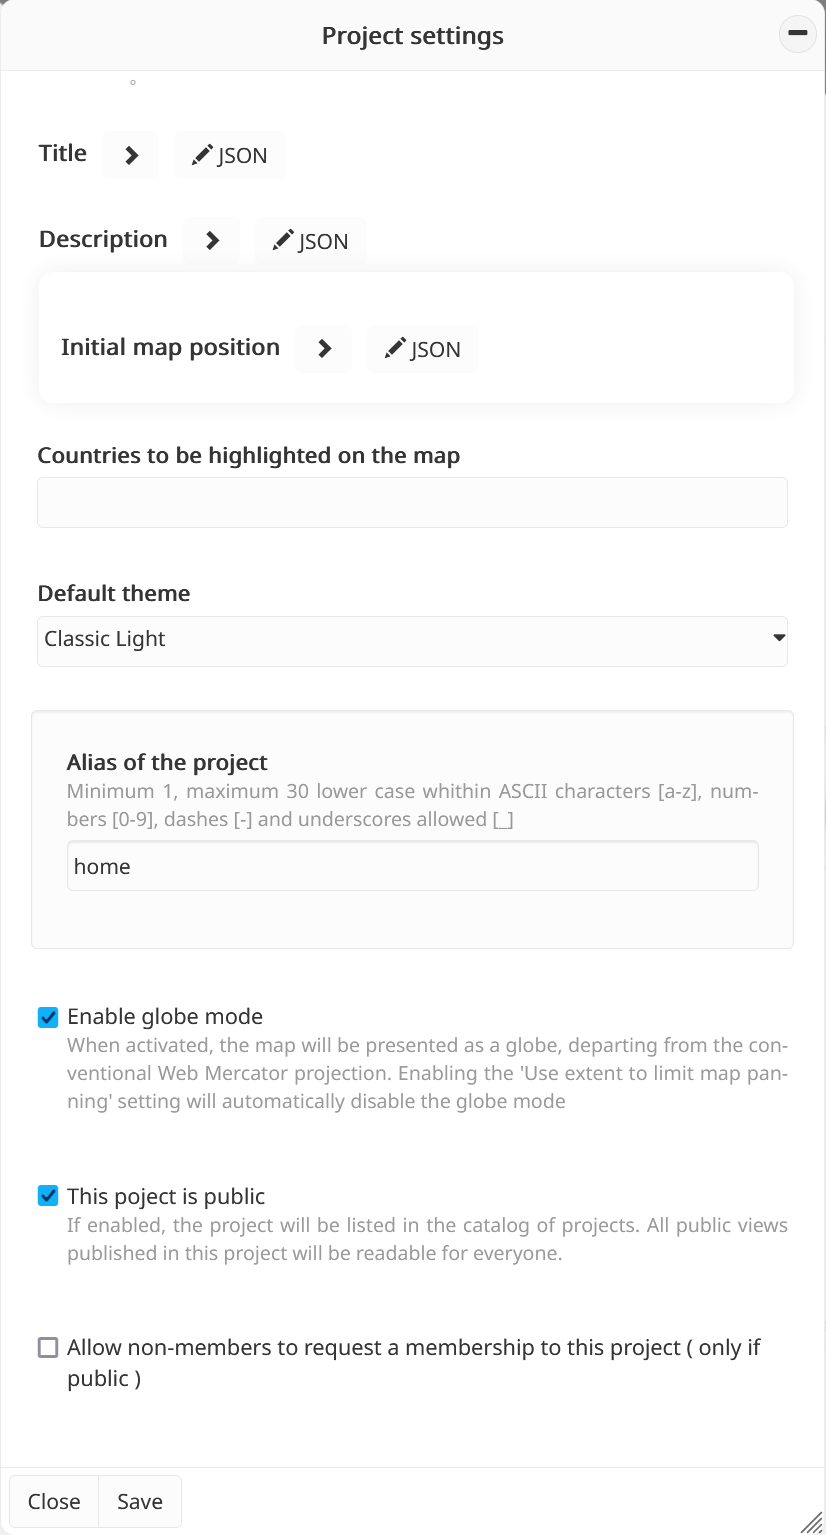
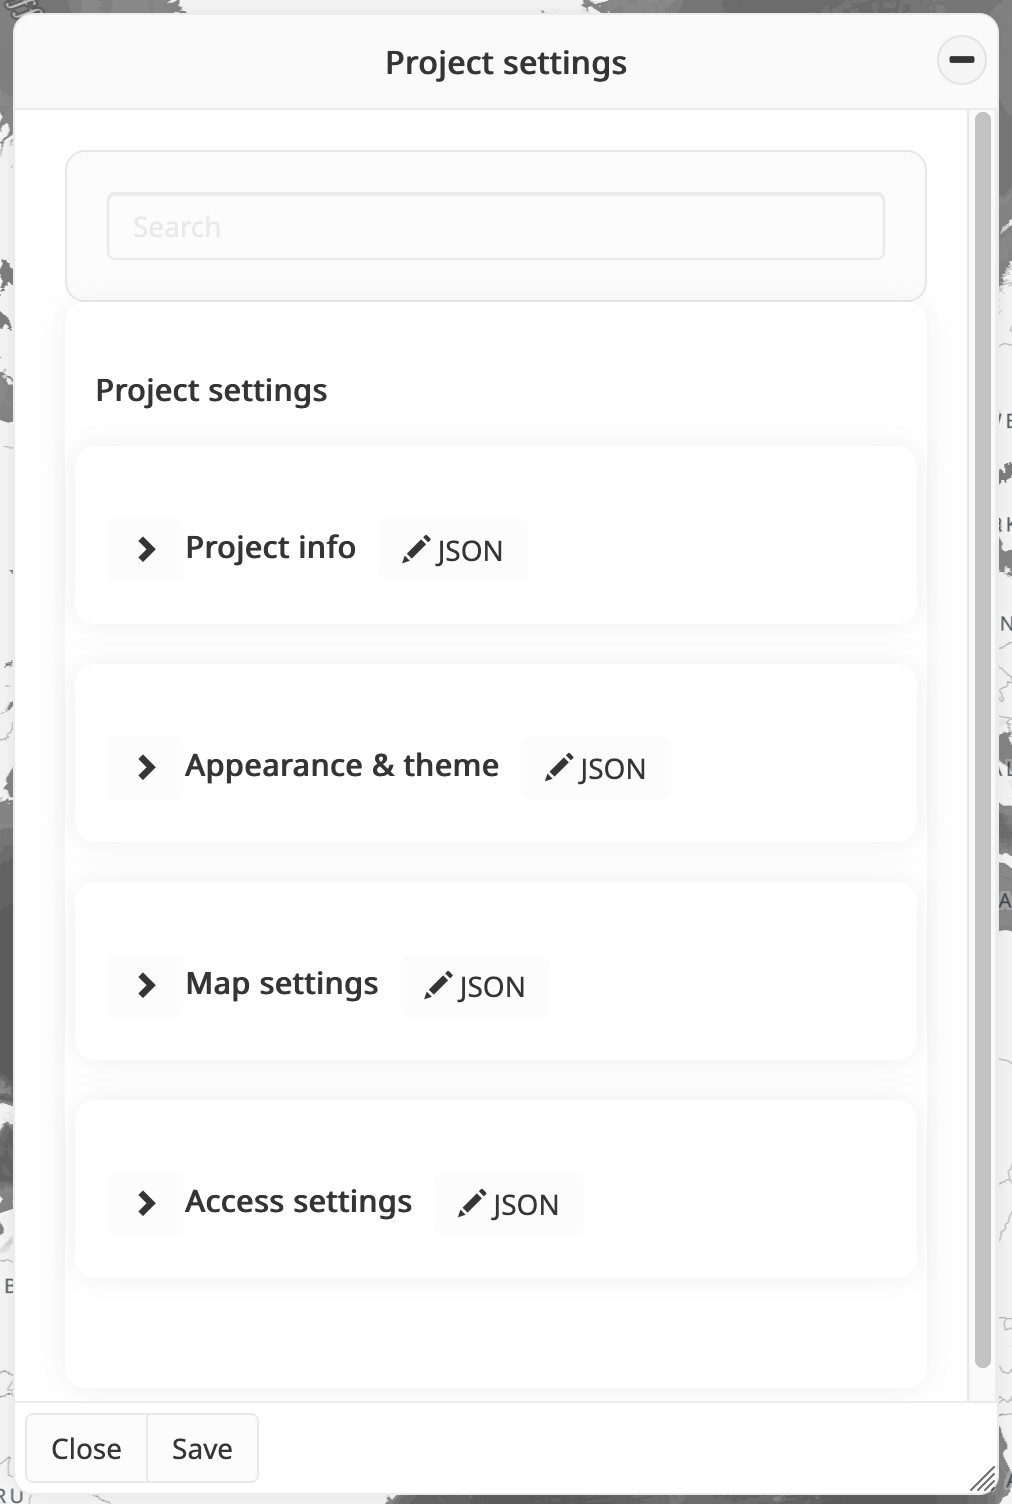
Add theme manager; update project configuration section; update screenshots

diff --git a/docs/user-interface/toolbox-basics.rst b/docs/user-interface/toolbox-basics.rst
@@ -6,7 +6,8 @@ content in MapX, managing projects and members, and perform some basic
 analysis on their data. Depending on the user's role in the project, the
 list of available tools varies. The tools presented in this section are
 those available to users with a public role. Advanced tools are
-presented and described in the :doc:`Advanced tools <../advanced-tools/index>` chapter.
+presented and described in the :doc:`Advanced tools <../advanced-tools/index>`
+chapter.
 
 .. only:: html
 
@@ -109,16 +110,7 @@ Utilities
    the MapX search tool API is provided in this tool. The API technical
    documentation is available
    `here <https://github.com/unep-grid/mapx/wiki/Search-tool-API>`__.
-5. **Theme configuration**: The MapX user interface as well as the
-   basemap can be customized from this tool. For each element, users can
-   enable/disable its display, and change its color and/or opacity. If
-   the element is a text/label, its font can also be changed. These
-   modifications are only effective during the current session and will
-   therefore not be preserved if MapX is reloaded. However, if you want
-   to keep your custom theme for future sessions, it is possible to
-   export it in ``JSON`` format on your computer and then import it as
-   needed.
-6. **MapX version and changelog**: This tool allows users to consult the
+5. **MapX version and changelog**: This tool allows users to consult the
    version of MapX they are using as well as the change-log of the
    application listing all the improvements, bug fixes and new
    functionalities deployed over the versions.
@@ -126,7 +118,7 @@ Utilities
 .. only:: html
 
    .. figure:: ./img/changelog.png
-      :width: 400
+      :width: 500
       :align: center
       :class: with-shadow
 
@@ -140,3 +132,115 @@ Utilities
       :class: with-shadow
 
       MapX changelog
+
+Theme configuration
+-------------------
+
+The **Theme manager** enables users to customize the MapX interface and basemap.
+Users can select an existing theme for the current session, modify it, or create
+a new one. For each element, users can toggle its visibility and adjust
+its color and opacity. Text and label elements also allow font customization.
+Multiple themes can be created and saved either for the current session or
+locally in the browser. Project administrators can leverage the **Theme
+manager** to create and assign a default theme for their project.
+
+How do I use the Theme manager?
+~~~~~~~~~~~~~~~~~~~~~~~~~~~~~~~~
+
+.. only:: html
+
+   .. figure:: ./img/theme-manager.jpg
+      :width: 500
+      :align: center
+      :class: with-shadow
+
+      MapX Theme Manager
+
+.. only:: latex
+
+   .. figure:: ./img/theme-manager.jpg
+      :width: 10cm
+      :align: center
+      :class: with-shadow
+
+      MapX Theme Manager
+
+1. **Theme selection:** This field allows you to select the theme to edit.
+   By default, the current theme is selected in the manager.
+2. **Search:** This field enables keyword-based searching within the editable
+   elements of the theme.
+3. **Editable elements:** Interface or basemap elements that can be edited.
+   For each element, you can toggle visibility and adjust color and opacity.
+4. **Font selection:** For text and label elements, the font can be modified
+   using the dropdown list.
+5. **Theme management tools:**
+
+   1. **Close:** Closes the **Theme manager**.
+   2. **Import:** Imports a local theme (from your computer) into the manager
+      in ``JSON`` format.
+   3. **Export:** Saves a theme locally (to your computer) in ``JSON`` format.
+   4. **Duplicate:** Copies and saves the currently selected theme with
+      your modifications.
+
+      .. only:: html
+
+         .. figure:: ./img/theme-manager-duplicate.png
+            :width: 400
+            :align: center
+            :class: with-shadow
+
+            Theme Storage Location
+
+      .. only:: latex
+
+         .. figure:: ./img/theme-manager-duplicate.png
+            :width: 8cm
+            :align: center
+            :class: with-shadow
+
+            Theme Storage Location
+
+      The duplication process requires the user to define an ID, a label, and
+      a description for the new theme. By default, the values shown in the panel
+      are those of the theme being copied.
+      
+      The lower part of the panel (highlighted in blue) allows you to configure
+      the combination of :ref:`Navigation buttons <navigation-buttons>`, enabled
+      or disabled, that will trigger the display of your theme.
+      Other combinations will display the default MapX themes. 
+
+      Once created, the following options are provided for saving a theme:
+
+      .. only:: html
+
+         .. figure:: ./img/theme-manager-storage.png
+            :width: 400
+            :align: center
+            :class: with-shadow
+
+            Theme Storage Location
+
+      .. only:: latex
+
+         .. figure:: ./img/theme-manager-storage.png
+            :width: 8cm
+            :align: center
+            :class: with-shadow
+
+            Theme Storage Location
+
+      - **Session, temporary:** The theme will only be available for the current
+        session and will be removed if the project is changed or MapX is
+        restarted.
+      - **This device, any project:** The theme will be stored locally in your
+        browser and will be accessible across all projects.
+      - **Database, for this project:** The theme will be saved permanently to
+        the MapX database. Currently, only project administrators can perform
+        this action.
+
+   5. **Update:** Modifies an existing theme.
+   6. **Delete:** Deletes a theme. Default MapX themes and the theme set as
+      the project default cannot be deleted.
+
+      .. warning::
+         Deletion is permanent and cannot be undone!

diff --git a/docs/project-management/project-configuration.rst b/docs/project-management/project-configuration.rst
@@ -9,40 +9,75 @@ Project configuration
 Administrators can access the **Project configuration** tool from the
 **Toolbox** and fill/update the following settings:
 
+Project info
+------------
+
 -  **Title** (multilingual)
--  **Description** (multilingual): brief summary of the project content
--  **Initial map position**: default map position when the project is
-   loaded by a user. In addition, it is possible to limit the map
-   panning to the defined position, thus limiting what users will be
-   able to see when exploring the project (e.g., a project can be
-   limited to the Mediterranean region and only display its extent).
--  **Countries to be highlighted on the map**
--  **Default theme**: default MapX theme when the project is loaded by a
-   user
--  **Alias of the project**: a human readable name with which the
-   project is identified and that can be used in the URL for accessing
-   the project
--  **Enable globe mode**: administrators have the option to default to
-   the globe mode to display data in the map instead of the Web Mercator
-   projection.
-   
+-  **Description** (multilingual): brief summary of the project content.
+-  **Alias of the project**: a human-readable name used to identify the project,
+   which can also be included in the URL to access it directly.
+-  **Organisation details**
+
+   - **Name**: the name of the organisation managing the project.
+   - **Contact name**: primary contact person for the project.
+   - **Contact email**: email address for inquiries related to the project.
+
+-  **Terms of use**: project-specific terms that complement the :doc:`general
+   MapX terms <../legal-notices/terms-of-use>`, defining rules and guidelines
+   applicable to this particular project.
+
+Appearance & theme
+------------------
+
+-  **Project logo**: the logo displayed in the MapX interface for the current
+   project, helping to visually identify the project. The logo must be provided
+   in ``SVG`` format.
+-  **Default theme**: the theme automatically applied when a user opens
+   the project. This can be a standard MapX theme or a custom theme defined by
+   a project administrator.
+
+Map settings
+------------
+
+-  **Countries to be highlighted on the map**: select which countries should
+   be visually emphasized when the project is displayed.
+-  **Initial map position**: defines the default map position when a user opens
+   the project. Additionally, map panning can be restricted to this defined
+   area, limiting the geographic extent that users can explore. For example,
+   a project focused on the Mediterranean region can be configured to only
+   display that area.
+
    .. warning::
-      Enabling the **Use extent to limit map panning** setting
+      Enabling the **Use extent to limit map panning** option
       (in the **Initial map position** section) will automatically
       disable the globe mode.
 
-In addition to the settings above, there are two options for defining
-the degree of openness of the project:
+-  **Map projection**: administrators can choose the default display mode for
+   the map, either as a globe or using the Web Mercator projection. It is also
+   possible to disable the globe mode button in the menu bar, preventing users
+   from switching to the globe view.
 
-1. Public or private project: while public projects can be searched in
-   the list of projects by all MapX users, private projects are only
-   visible/accessible by their members.
+Access settings
+---------------
+
+In addition to the general project settings, MapX provides two options
+to define the level of accessibility for a project:
+
+1. Public or private project:
+   
+   -  Public projects are visible and searchable in the project list for
+      all MapX users.
+   -  Private projects are only accessible to members explicitly added to
+      the project.
    
    .. note::
-      Don't forget that it is possible to define specific reading rights
-      for each view of a project. It is therefore possible to publish
-      private views (e.g., available only to members) in a public project.
+      It is possible to define specific read permissions for each project view.
+      For example, a private view (accessible only to members) can exist within
+      a public project.
 
-2. Allow public users to apply for a member role in the project: this
-   option complements the **Invite a new member** tool available to
-   administrators (see below).
+2. Allow public users to request membership:
+
+   -  Enabling this option allows users who are not currently members to apply
+      for a member role in the project.
+   -  This feature complements the **Invite a new member** tool available to
+      project administrators.

diff --git a/docs/sources/edit-vector-source.rst b/docs/sources/edit-vector-source.rst
@@ -38,7 +38,7 @@ Selecting the source to edit
 ~~~~~~~~~~~~~~~~~~~~~~~~~~~~
 
 .. figure:: ./img/edit-sources-selection.png
-   :width: 400
+   :width: 450
    :align: center
    :class: with-shadow
 
@@ -59,7 +59,7 @@ interactive field. All the information listed above are parsed and
 matching texts are underlined.
 
 .. figure:: ./img/edit-sources-selection.gif
-   :width: 400
+   :width: 450
    :align: center
    :class: with-shadow
 
@@ -154,6 +154,16 @@ but it is possible to move them using the **Set columns order** tool
    views. Therefore, the view settings need to be updated to use them in a
    dashboard or visualize them (i.e., attributes table, pop-up) (more
    details :ref:`here <configuring-view>`).
+
+Add identity column
+^^^^^^^^^^^^^^^^^^^
+
+This tool allows to add an `identity column
+<https://www.postgresql.org/docs/current/ddl-identity-columns.html>`__ to
+a source. An identity column is a special type of column that automatically
+generates a unique numeric value for each row, providing a reliable identifier.
+This is especially useful when downloading sources from MapX, as it ensures
+each row can be uniquely referenced.
 
 Remove column
 ^^^^^^^^^^^^^

diff --git a/docs/user-interface/index.rst b/docs/user-interface/index.rst
@@ -13,7 +13,7 @@ interact, export the data displayed in the map.
    MapX user interface elements
 
 
-The MapX user interface is made up of 4 distinct elements which complete
+The MapX user interface is made up of 3 distinct elements which complete
 the interactive map and which are:
 
 1. The **Work environment** contains several key elements of MapX: the
@@ -28,12 +28,9 @@ the interactive map and which are:
 3. The **Notification panel** informs users if an error has occurred in
    MapX. In addition, some tools (e.g., download) send information to
    users via the notification system.
-4. The scale of the map as well as the coordinates of the pointer are
-   displayed in this area.
 
 .. hint::
-   Except for the scale and pointer coordinates, other interface
-   elements can be hidden by clicking on the square buttons located in the
+   Elements can be hidden by clicking on the square buttons located in the
    corners of the application.
 
 .. toctree::

diff --git a/docs/user-interface/work-environment.rst b/docs/user-interface/work-environment.rst
@@ -52,6 +52,35 @@ the interface.
 
       List of projects available to the user
 
+Project information
+-------------------
+
+Next to the project title, users will find an **information (i) button**.
+Clicking this button provides access to essential details about the project.
+This includes information about the project's organisation, relevant statistics,
+and project-specific Terms of use. These terms are designed to complement
+the general :doc:`MapX terms <../legal-notices/terms-of-use>`, ensuring that
+users have a complete understanding of the rules and guidelines that apply to
+the current project.
+
+.. only:: html
+
+   .. figure:: ./img/project-info.png
+      :width: 450
+      :align: center
+      :class: with-shadow
+
+      Project information
+
+.. only:: latex
+
+   .. figure:: ./img/project-info.png
+      :width: 10cm
+      :align: center
+      :class: with-shadow
+
+      Project information
+
 Login
 -----
 

diff --git a/docs/introduction/mapx-highlights.rst b/docs/introduction/mapx-highlights.rst
@@ -3,7 +3,7 @@ MapX highlights
 
 -  Most of MapX content (tools or data) is publicly available without
    the need to register in the application.
--  As of January 15, 2025, nearly 2,000 public data layers have been
+-  As of September 24, 2025, nearly 2,100 public data layers have been
    published in MapX.
 -  It is currently available in all the UN's six official languages
    (Arabic, Chinese, English, French, Russian, Spanish) and in German,

diff --git a/README.md b/README.md
@@ -13,7 +13,7 @@ Build PDF & HTML:
 
 docker run --rm \
       --volume "$(pwd):/docs" \
-      git.unepgrid.ch/mapx/sphinx-latexpdf-mapx:1.0.3 sh -c \
+      git.unepgrid.ch/mapx/sphinx-latexpdf-mapx:2025-09-17 sh -c \
       "rm -r _build/ && make latexpdf && cp _build/latex/mapx.pdf _static/ && make html"
 ```
 

diff --git a/docs/user-interface/menu-bar.rst b/docs/user-interface/menu-bar.rst
@@ -6,6 +6,8 @@ allow interaction with the map and provides access to some of the MapX
 tools. All of these buttons/tools are accessible to users regardless of
 their role in MapX.
 
+.. _navigation-buttons:
+
 Navigation buttons
 ~~~~~~~~~~~~~~~~~~
 

diff --git a/docs/project-management/management-members-roles.rst b/docs/project-management/management-members-roles.rst
@@ -33,7 +33,7 @@ Setting users roles and permissions
 -----------------------------------
 
 .. figure:: ./img/roles-admin-panel.png
-   :width: 350
+   :width: 550
    :align: center
    :class: with-shadow
 
